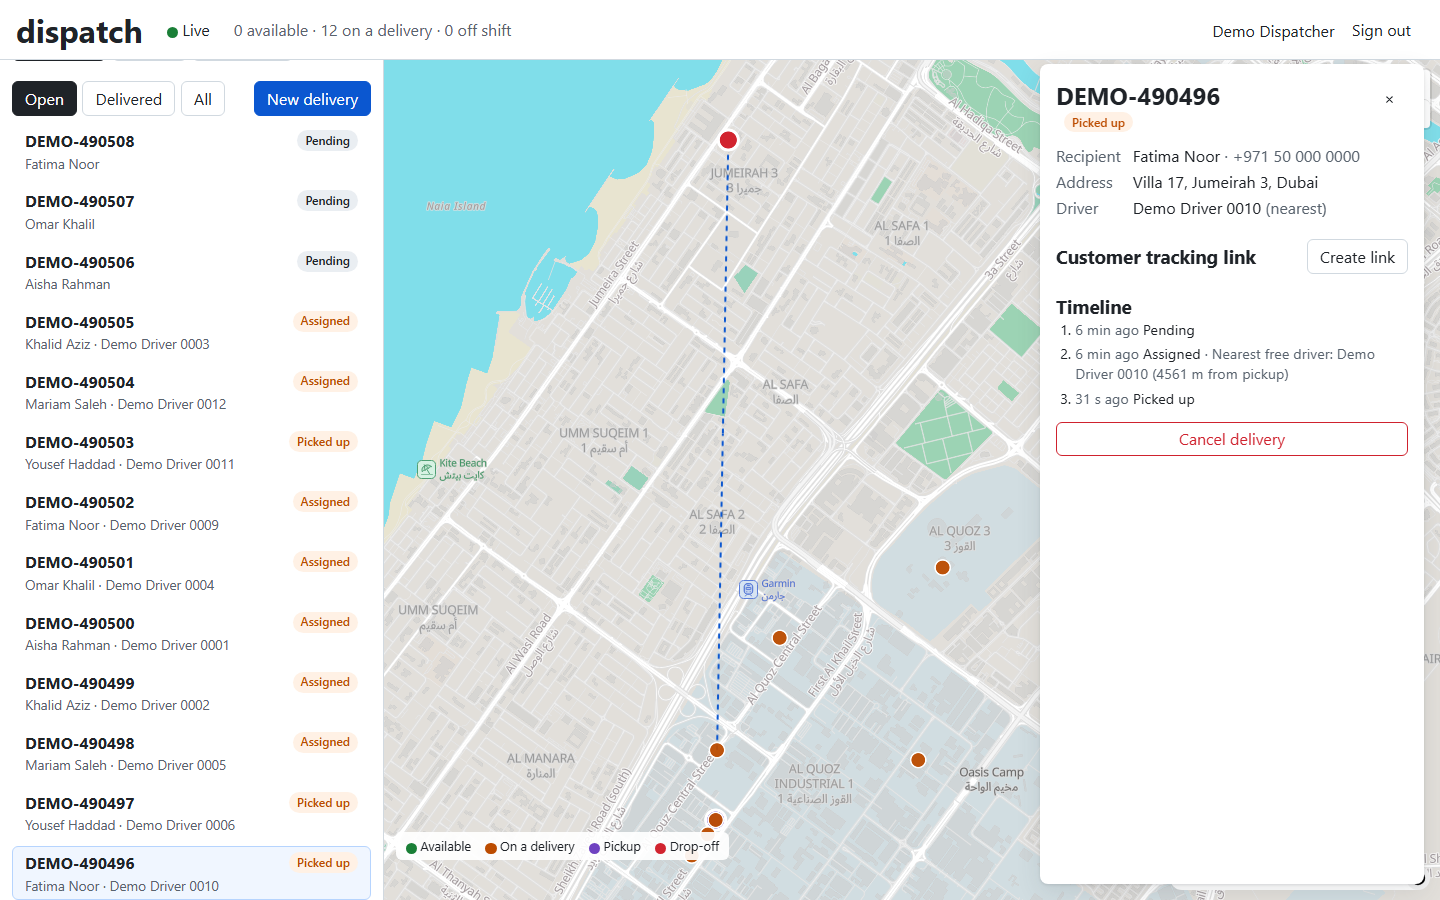
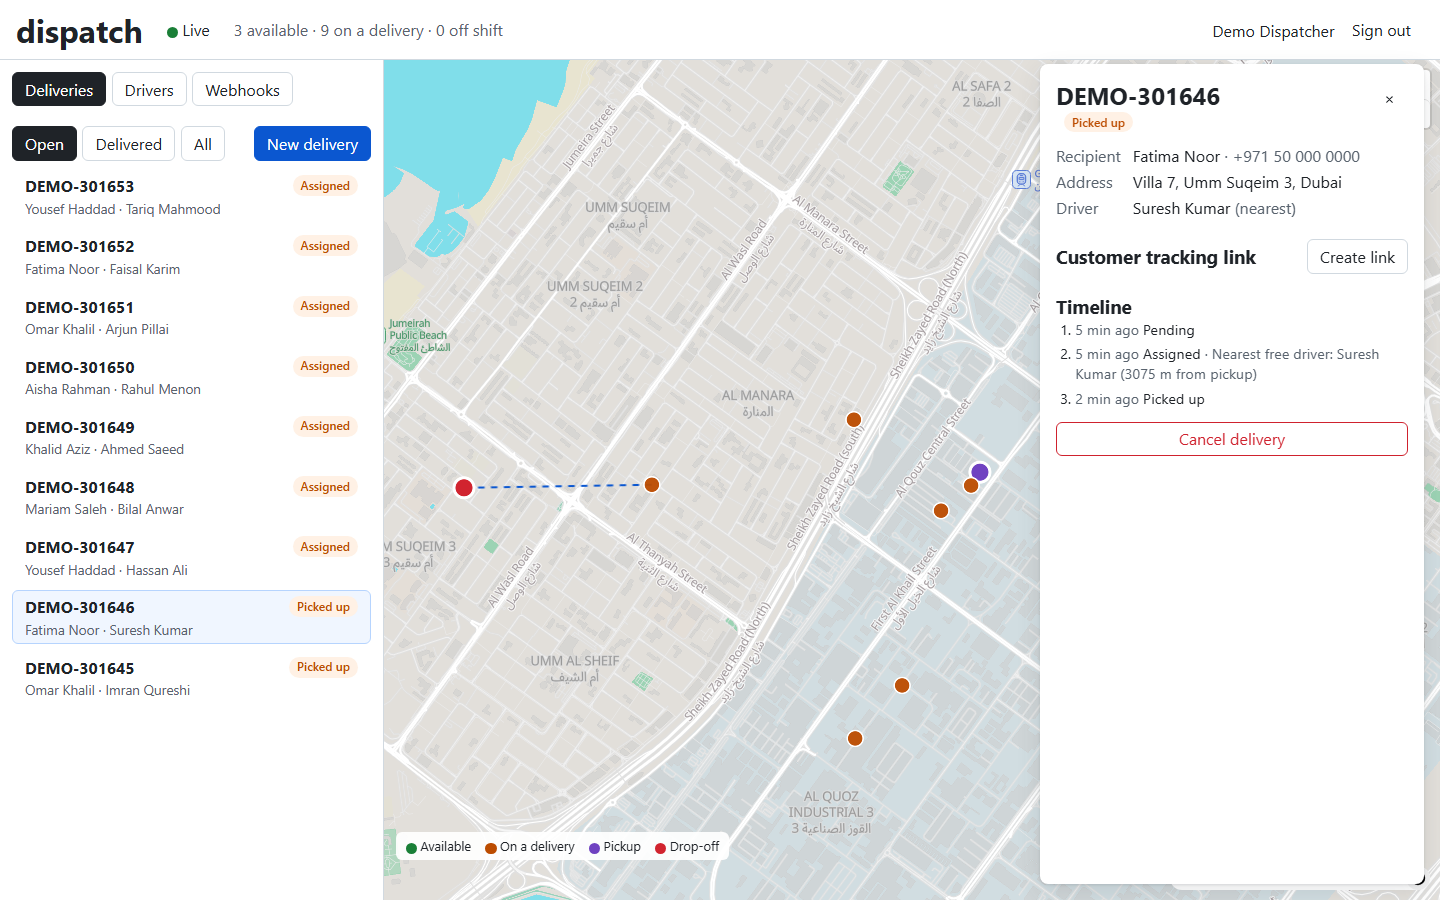
docs: show the console moving, and retake the screenshots with the new demo
The README now opens with a 40-second recording of the console during the
demo, played five times faster (docs/screenshots/demo.gif, 172 KB).
scripts/record-demo-gif.sh captures one frame a second with Playwright
(apps/web/scripts/capture-demo-frames.mjs) and assembles them with ffmpeg in
a container.

The still screenshots were taken again from the compose stack running the
updated demo: drivers have names ("Your driver: Suresh" on the tracking
page), the proof of delivery was captured 67 m from the drop-off pin, and
the console shows free drivers.

diff --git a/README.md b/README.md
@@ -8,7 +8,7 @@ A portfolio project. The orders come from [TopFlow Hub](https://github.com/fasha
 another portfolio project, whose receiving side marks them delivered (ADR-024 in its
 `docs/DECISIONS.md`). Nothing here serves a real company.
 
-![The dispatcher console: drivers and deliveries on a map of Dubai, with a delivery on its way selected](docs/screenshots/console.png)
+![The dispatcher console during the demo: drivers move across Dubai and a delivery on its way is selected (40 seconds, played five times faster)](docs/screenshots/demo.gif)
 
 | Tracking page, Arabic                                                                                           | Tracking page, English                                        | Proof of delivery in the console                                                             |
 | --------------------------------------------------------------------------------------------------------------- | ------------------------------------------------------------- | -------------------------------------------------------------------------------------------- |
@@ -24,8 +24,9 @@ signal in car parks and tunnels, so anything that relies on a constant connectio
 ## Features
 
 - **Live map.** Every driver's position and every open delivery, updated over WebSockets as
-  fixes arrive, on a Protomaps basemap of Dubai. After a reconnect the console catches up on the
-  positions it missed and reloads drivers and deliveries.
+  fixes arrive, on a Protomaps basemap of Dubai ([screenshot](docs/screenshots/console.png)).
+  After a reconnect the console catches up on the positions it missed and reloads drivers and
+  deliveries.
 - **Nearest free driver.** New deliveries are assigned to the closest available driver with a
   recent fix (PostGIS KNN on a GiST index, safe under concurrent assignment). The dispatcher can
   see the candidates with distances and ETAs and override the choice before pickup.
@@ -195,7 +196,7 @@ tools/
   simulator/       CLI: seed simulated drivers, drive them, run the demo, listen and verify
 load/              k6 scale test, its runner and report
 deploy/            nginx configuration for the compose stack
-scripts/           Basemap extract and OSRM data preparation
+scripts/           Basemap extract, OSRM data preparation, the README's demo GIF
 docs/              Decisions, scale test, screenshots
 ```
 
